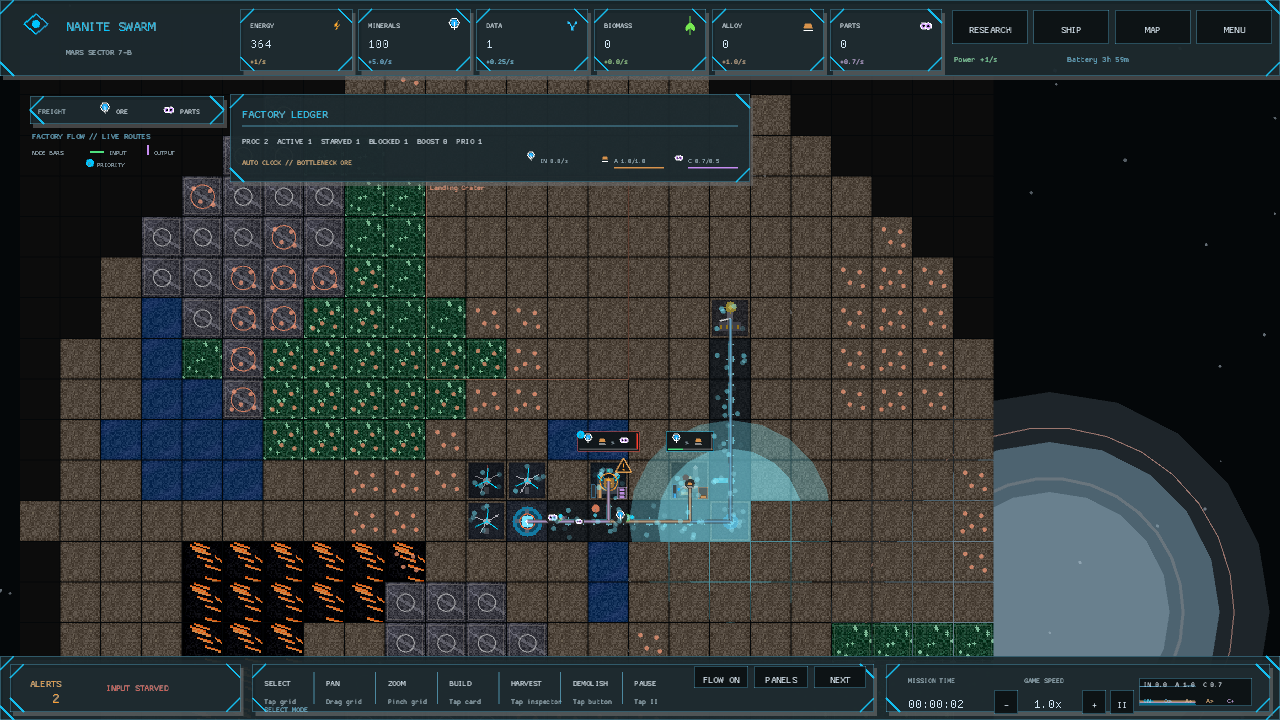
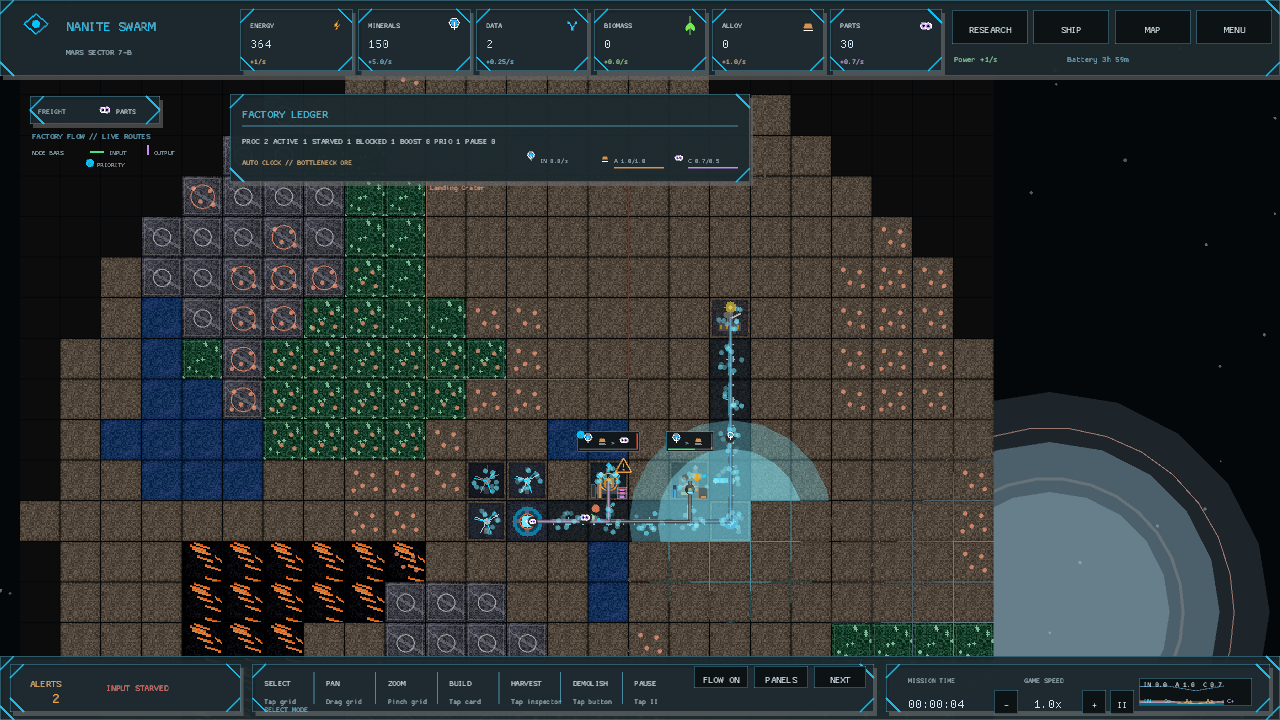
A whole production quarter can fall silent on command (bulk standby and alert hygiene)
Single-line standby did not scale to box-selected factory districts, and deliberately paused machines still looked starved or blocked to alert systems. Add equal-width bulk PRIORITIZE and PAUSE/RESUME controls, exclude standby lines from operational alarms, and report their count explicitly in FLOW. Extend selection, status, and ledger tests and refresh both reference captures.

diff --git a/src/screens/planetary_view/flow_render.rs b/src/screens/planetary_view/flow_render.rs
@@ -39,6 +39,7 @@ struct FactoryLedger {
     blocked: usize,
     boosted: usize,
     priority: usize,
+    standby: usize,
     congested: usize,
     peak_network_load: u32,
     network_capacity: f32,
@@ -154,13 +155,14 @@ fn draw_factory_ledger(ledger: &FactoryLedger, metrics: HudMetrics, theme: &UiTh
     let warning = color_from_rgba(&theme.colors.warning);
     let success = color_from_rgba(&theme.colors.success);
     let summary = format!(
-        "PROC {}  ACTIVE {}  STARVED {}  BLOCKED {}  BOOST {}  PRIO {}",
+        "PROC {} ACTIVE {} STARVED {} BLOCKED {} BOOST {} PRIO {} PAUSE {}",
         ledger.processors,
         ledger.active,
         ledger.starved,
         ledger.blocked,
         ledger.boosted,
-        ledger.priority
+        ledger.priority,
+        ledger.standby
     );
     draw_ui_text(&summary, area.x + 12.0, area.y + 50.0, 10.0, text);
 
@@ -290,6 +292,7 @@ fn factory_ledger(state: &PlanetState) -> FactoryLedger {
         })
         .count();
     let priority = nodes.iter().filter(|node| node.priority).count();
+    let standby = nodes.iter().filter(|node| node.standby).count();
     FactoryLedger {
         processors: nodes.len(),
         active,
@@ -297,6 +300,7 @@ fn factory_ledger(state: &PlanetState) -> FactoryLedger {
         blocked: blocked.len(),
         boosted,
         priority,
+        standby,
         congested: state.congested_tiles(),
         peak_network_load: state.traffic.values().copied().max().unwrap_or(0),
         network_capacity: state.config.buildings.conduit_capacity.max(1.0),

diff --git a/src/screens/planetary_view/hud/build_palette.rs b/src/screens/planetary_view/hud/build_palette.rs
@@ -488,12 +488,45 @@ pub(super) fn draw(
             Rect::new(
                 sidebar_x + metrics.panel_padding,
                 fifth_y + 36.0,
-                sidebar_w - metrics.panel_padding * 2.0,
+                half_w,
                 24.0,
             ),
             &label,
         ) {
             state.set_selected_input_priority(prioritize);
+        }
+        let selected_standby: Vec<bool> = state
+            .box_selected
+            .iter()
+            .filter_map(|pos| {
+                state
+                    .grid
+                    .get(*pos)
+                    .and_then(|tile| tile.building.as_ref())
+                    .filter(|building| building.supports_overclock())
+                    .map(|building| building.standby)
+            })
+            .collect();
+        let pause = selected_standby.iter().any(|standby| !standby);
+        let label = if pause {
+            format!(
+                "PAUSE {}",
+                selected_standby.iter().filter(|standby| !**standby).count()
+            )
+        } else {
+            format!("RESUME {}", selected_standby.len())
+        };
+        if draw_hud_button(
+            theme,
+            Rect::new(
+                sidebar_x + metrics.panel_padding + half_w + 8.0,
+                fifth_y + 36.0,
+                half_w,
+                24.0,
+            ),
+            &label,
+        ) {
+            state.set_selected_standby(pause);
         }
     } else {
         let unlocked = state

diff --git a/src/state/actions.rs b/src/state/actions.rs
@@ -373,6 +373,39 @@ impl PlanetState {
         changed
     }
 
+    /// Pause or resume every recipe building in the current box selection.
+    pub fn set_selected_standby(&mut self, standby: bool) -> usize {
+        let positions = self.box_selected.clone();
+        let mut changed = 0;
+        for pos in positions {
+            let Some(building) = self
+                .grid
+                .get_mut(pos)
+                .and_then(|tile| tile.building.as_mut())
+            else {
+                continue;
+            };
+            if building.supports_overclock() && building.standby != standby {
+                building.standby = standby;
+                if standby {
+                    building.overclocked = false;
+                }
+                changed += 1;
+            }
+        }
+        if changed > 0 {
+            self.grid.update_power_grid();
+            self.power_balance = self.net_power();
+            self.notifications.info(format!(
+                "{} processor{} {}",
+                changed,
+                if changed == 1 { "" } else { "s" },
+                if standby { "paused" } else { "resumed" }
+            ));
+        }
+        changed
+    }
+
     /// Two-tap recovery for a processor whose output cannot leave the pad.
     pub fn request_processor_pad_purge(&mut self, pos: GridPos) -> bool {
         let waiting = self

diff --git a/src/state/progress.rs b/src/state/progress.rs
@@ -321,7 +321,9 @@ impl PlanetState {
                 self.grid
                     .get(*pos)
                     .and_then(|tile| tile.building.as_ref())
-                    .is_some_and(|building| building.powered && !building.is_dust_stalled())
+                    .is_some_and(|building| {
+                        building.powered && !building.standby && !building.is_dust_stalled()
+                    })
                     && self
                         .output_buffers
                         .get(&(pos.x, pos.y))
@@ -351,7 +353,7 @@ impl PlanetState {
                 else {
                     return false;
                 };
-                if !building.powered || building.is_dust_stalled() {
+                if !building.powered || building.standby || building.is_dust_stalled() {
                     return false;
                 }
                 let carried = recipe.carried_ids();

diff --git a/src/state/actions/tests.rs b/src/state/actions/tests.rs
@@ -372,6 +372,38 @@ fn box_selection_changes_every_processor_without_touching_other_buildings() {
             .input_priority
     );
     assert_eq!(state.set_selected_input_priority(false), 2);
+    assert_eq!(state.set_selected_standby(true), 2);
+    assert!(
+        state
+            .grid
+            .get(smelter)
+            .unwrap()
+            .building
+            .as_ref()
+            .unwrap()
+            .standby
+    );
+    assert!(
+        state
+            .grid
+            .get(assembler)
+            .unwrap()
+            .building
+            .as_ref()
+            .unwrap()
+            .standby
+    );
+    assert!(
+        !state
+            .grid
+            .get(drill)
+            .unwrap()
+            .building
+            .as_ref()
+            .unwrap()
+            .standby
+    );
+    assert_eq!(state.set_selected_standby(false), 2);
 }
 
 #[test]

diff --git a/src/state/simulation/tests.rs b/src/state/simulation/tests.rs
@@ -344,6 +344,27 @@ fn starvation_marks_only_powered_processors_with_a_missing_input() {
         state.starved_factories().is_empty(),
         "an offline machine needs power, not an input warning"
     );
+
+    state
+        .grid
+        .get_mut(pos)
+        .unwrap()
+        .building
+        .as_mut()
+        .unwrap()
+        .powered = true;
+    state
+        .grid
+        .get_mut(pos)
+        .unwrap()
+        .building
+        .as_mut()
+        .unwrap()
+        .standby = true;
+    assert!(
+        state.starved_factories().is_empty(),
+        "a deliberately paused machine is not starved"
+    );
 }
 
 #[test]

diff --git a/src/screens/planetary_view/flow_render/tests.rs b/src/screens/planetary_view/flow_render/tests.rs
@@ -125,6 +125,7 @@ fn factory_ledger_names_the_missing_input_and_boosted_processor() {
     assert_eq!(ledger.starved, 1);
     assert_eq!(ledger.boosted, 1);
     assert_eq!(ledger.priority, 1);
+    assert_eq!(ledger.standby, 0);
     assert_eq!(ledger.bottleneck, Some(ResourceType::Minerals));
     assert!(ledger.components_capacity > 0.0);
 }

diff --git a/README.md b/README.md
@@ -46,6 +46,7 @@ Box-select a production district to prioritize or standardize every processor to
 The FLOW ledger compares observed alloy and parts output with installed processor capacity and draws utilization bars, making underused factory depth visible alongside starvation and backpressure.
 Processor floor art now carries its operating policy: priority machines pulse a cyan beacon, boosted lines move twin product packets faster, and full output pads close red warning shutters over their crate dock.
 Selected processors can enter STANDBY without demolition: production and base power demand stop, freight ignores the paused line, and both input and output buffers remain intact for RESUME.
+Box-selected production districts can be paused or resumed together, and standby processors are excluded from starvation/backpressure alerts while the FLOW ledger reports their count separately.
 
 Keyboard shortcuts are optional:
 
